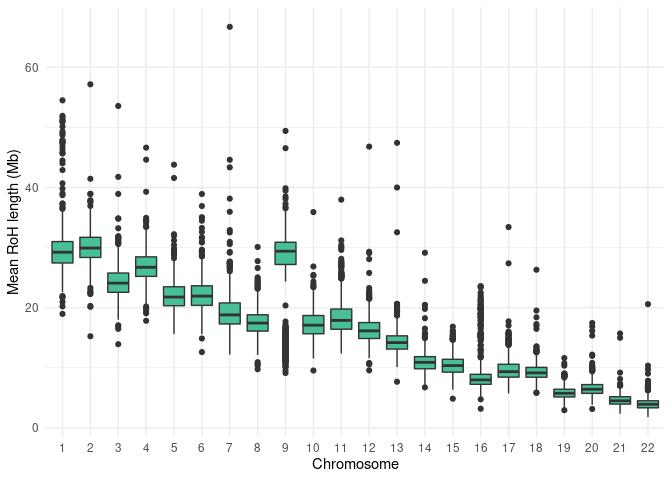
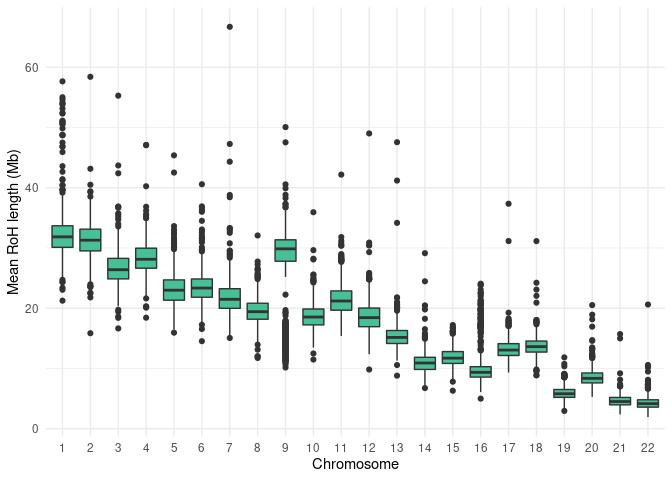
updated coverage

diff --git a/roh/roh.md b/roh/roh.md
@@ -6,37 +6,29 @@ Runs of homozygosity on 943 individuals
 #### ROHs quality histogram
 
 ``` r
-# Quality filtering: Quality>25 & markers > 50 & removing all centromer regions
+# Quality filtering: Quality>25 & markers > 50
 roh <- roh %>% 
   filter(Quality > 25 & Number_of_markers >50)
-
-cent <- fread('cytoBand.txt') %>% select(-V4)
-colnames(cent) <- c('Chromosome','start','end','stain')
-roh <- roh %>% left_join(cent,by='Chromosome')
-roh <- roh %>% mutate(start = Start-start, end = End-end)
-roh$cent <- ifelse(roh$start > 0 & roh$end < 0, 'cent',NA)
-roh <- roh %>% filter(is.na(cent) == T) %>% 
-  select(Chromosome:sample_id)
 ```
 
 #### ROH stats after quality filtering
 
 | stat                |   min |  median |      mean |        max |
 |:--------------------|------:|--------:|----------:|-----------:|
-| Length              | 609.0 | 71653.0 | 113793.15 | 29363916.0 |
-| Number\_of\_markers |  51.0 |   131.0 |    185.94 |    33173.0 |
-| Quality             |  25.1 |    60.5 |     59.50 |       98.7 |
+| Length              | 609.0 | 72459.0 | 123018.00 | 29363916.0 |
+| Number\_of\_markers |  51.0 |   132.0 |    193.66 |    33173.0 |
+| Quality             |  25.1 |    60.4 |     59.40 |       98.7 |
 
 Average ROH size per genome (additionally filtered: &gt;100kb)
 
 | stat      |       average |
 |:----------|--------------:|
-| count     |       1082.49 |
-| maxLen    |   14040018.37 |
-| meanLen   |     229953.03 |
-| medianLen |     161764.60 |
-| minLen    |     100073.90 |
-| sumLen    | 248954186\.30 |
+| count     |       1124.41 |
+| maxLen    |   14239847.30 |
+| meanLen   |     252746.68 |
+| medianLen |     164071.12 |
+| minLen    |     100073.33 |
+| sumLen    | 284174602\.38 |
 
 ## Results
 
@@ -92,16 +84,16 @@ frequently covered by runs of homozygozity in this cohort.
 
 |     | mean\_SROH\_Mb  |
 |:----|:----------------|
-|     | Min. : 2.016    |
-|     | 1st Qu.: 17.179 |
-|     | Median : 20.304 |
-|     | Mean : 20.350   |
-|     | 3rd Qu.: 24.015 |
-|     | Max. :125.382   |
+|     | Min. : 5.821    |
+|     | 1st Qu.: 28.883 |
+|     | Median : 33.855 |
+|     | Mean : 33.207   |
+|     | 3rd Qu.: 37.978 |
+|     | Max. :131.589   |
 
 | Range    | mean\_length |
 |:---------|-------------:|
-| 2Mb-5Mb  |     2.717998 |
+| 2Mb-5Mb  |     2.892791 |
 | &gt;10Mb |    16.239240 |
 
 5.  Sum of ROH length per range
@@ -114,12 +106,12 @@ frequently covered by runs of homozygozity in this cohort.
 
 |     | 2Mb-5Mb        | &gt;10Mb       |
 |:----|:---------------|:---------------|
-|     | Min. : 2.000   | Min. : 10.03   |
-|     | 1st Qu.: 2.932 | 1st Qu.: 15.89 |
-|     | Median : 5.236 | Median : 16.76 |
-|     | Mean : 6.239   | Mean : 17.87   |
-|     | 3rd Qu.: 8.106 | 3rd Qu.: 17.17 |
-|     | Max. :25.865   | Max. :104.20   |
+|     | Min. : 5.815   | Min. : 10.00   |
+|     | 1st Qu.:15.537 | 1st Qu.: 15.89 |
+|     | Median :18.727 | Median : 16.76 |
+|     | Mean :19.026   | Mean : 17.77   |
+|     | 3rd Qu.:21.975 | 3rd Qu.: 17.17 |
+|     | Max. :42.199   | Max. :104.20   |
 
 6.  Relationship between number of ROHs and total length of genome
     covered by them
